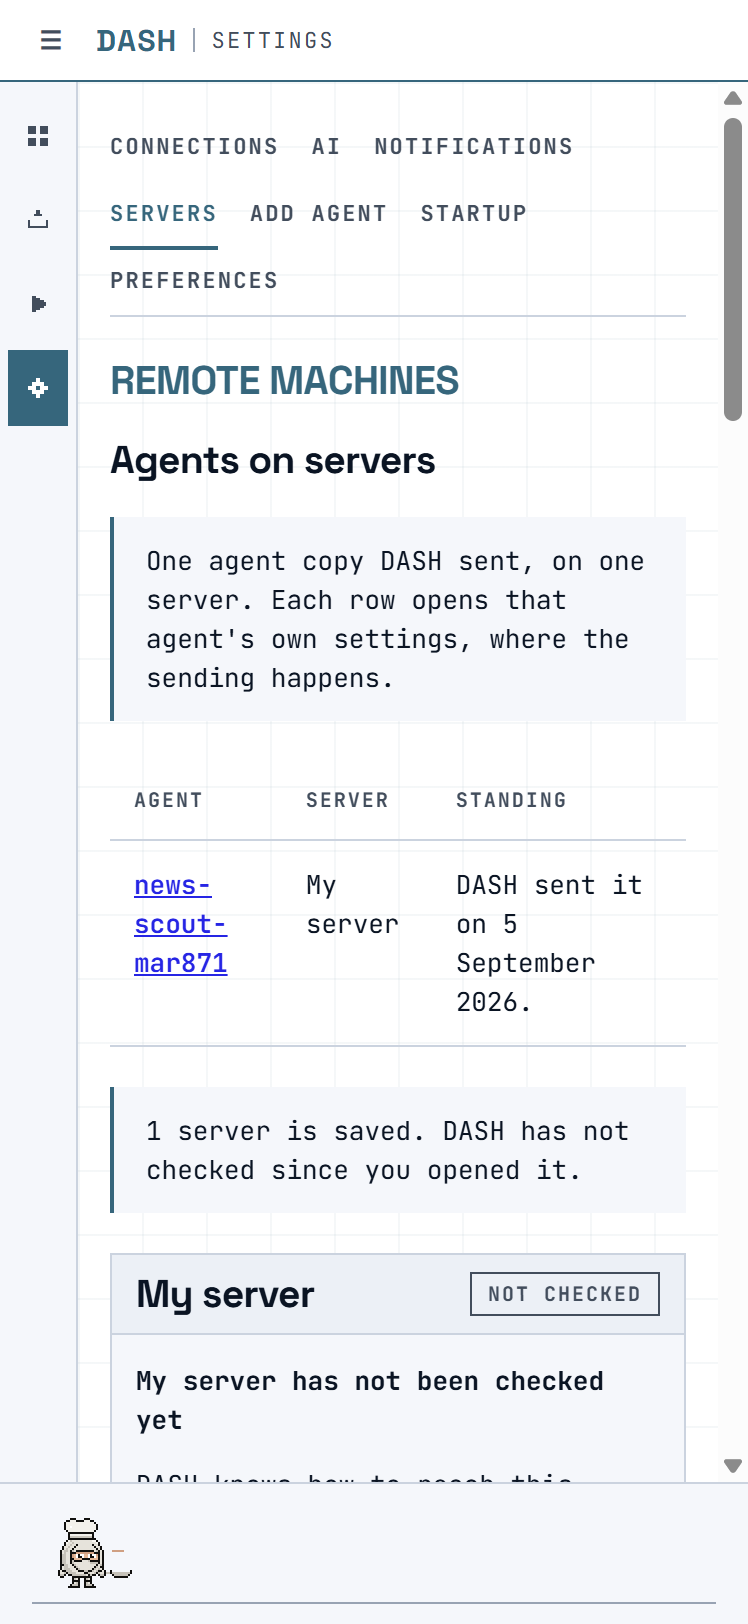
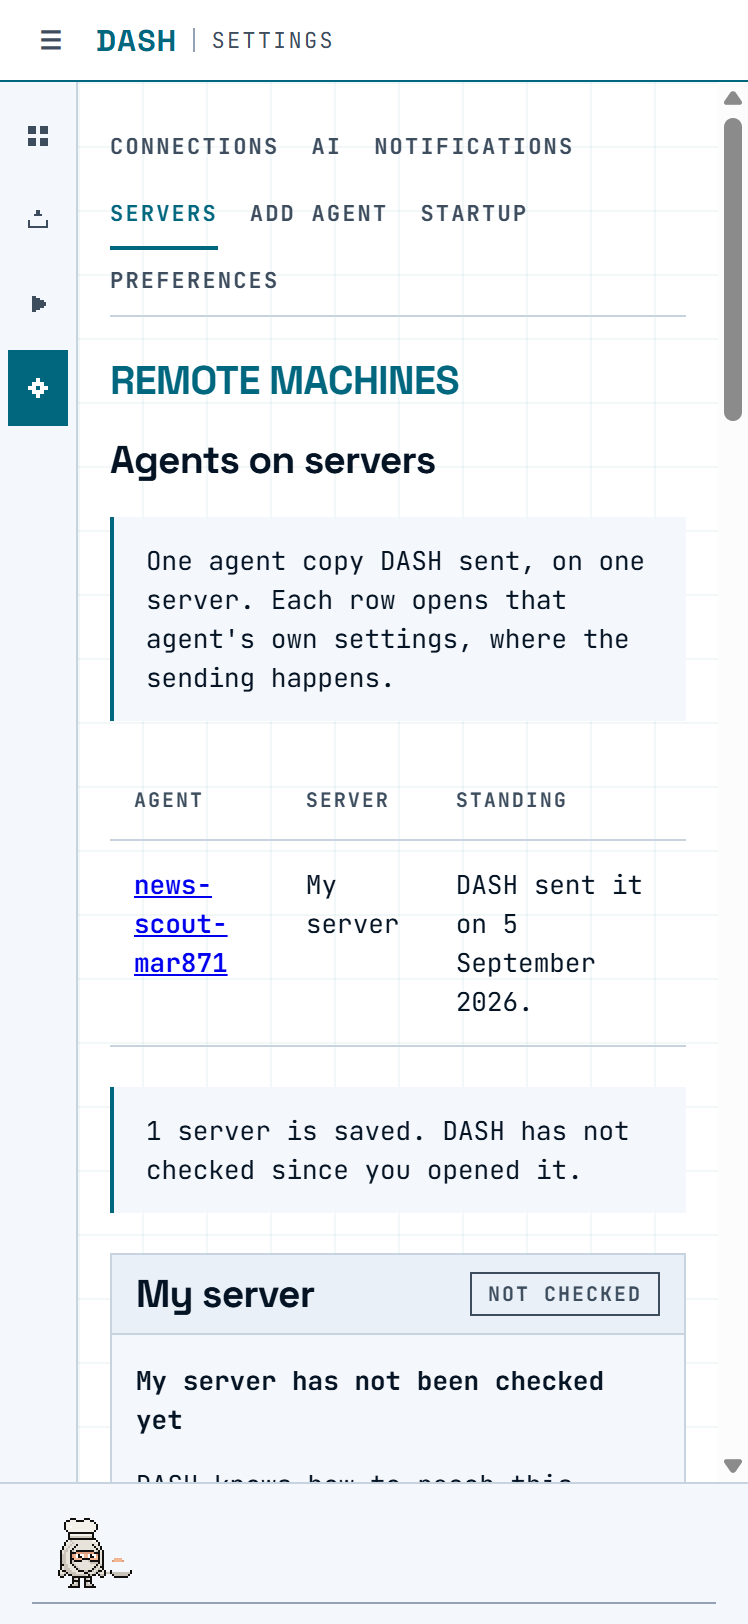
test(mar-871): re-shoot the deployed scene after the copy rename
summariseWhatIsOnHost's line is on the card in this scene, so those frames were
carrying a sentence the product no longer says. Re-built and re-run rather than
left: a frame showing copy the code does not produce is the mislabelled image
this harness's own header warns about, and it is worse than a missing one.

The saved and no-server scenes are unaffected. The renamed not_checked next
action is suppressed on that state anyway, because there the button is the
instruction.

Also records the extension's verification in the handoff.

diff --git a/docs/mar-871-handoff.md b/docs/mar-871-handoff.md
@@ -292,3 +292,20 @@ were corrected with it.
 `app/globals.css`: both packets append a fenced block to the end of it. Resolved
 by keeping **both**, MAR-875's first and MAR-871's after — neither restyles a
 shared rule, which is what the fences are for.
+
+**Verified after the extension.** `pnpm typecheck` clean, `pnpm brand:check`
+passed, focused (11 files) `Test Files 11 passed (11) / Tests 276 passed | 2
+skipped (278)`. Full: `Test Files 4 failed | 267 passed (271) / Tests 5 failed |
+5164 passed | 13 skipped (5182)` — the four are `fleet-decisions`,
+`schedule-store`, `chief-key-delivery` and `store-sqlite`, none of them this
+lane's files and a different set from the previous run's. Re-run together and
+alone: `Test Files 4 passed (4) / Tests 70 passed (70)`. Parallel load, not a
+regression.
+
+**One scene re-shot.** `summariseWhatIsOnHost`'s sentence is on the card in the
+`deployed` scene, so those frames were carrying copy the code no longer
+produces. Re-built and re-run rather than left: a frame showing a sentence the
+product does not say is the mislabelled image this harness's own header warns
+about. The `saved` and `no-server` scenes are unaffected — the renamed
+`not_checked` next action is suppressed on that state anyway, because the button
+is the instruction there.
